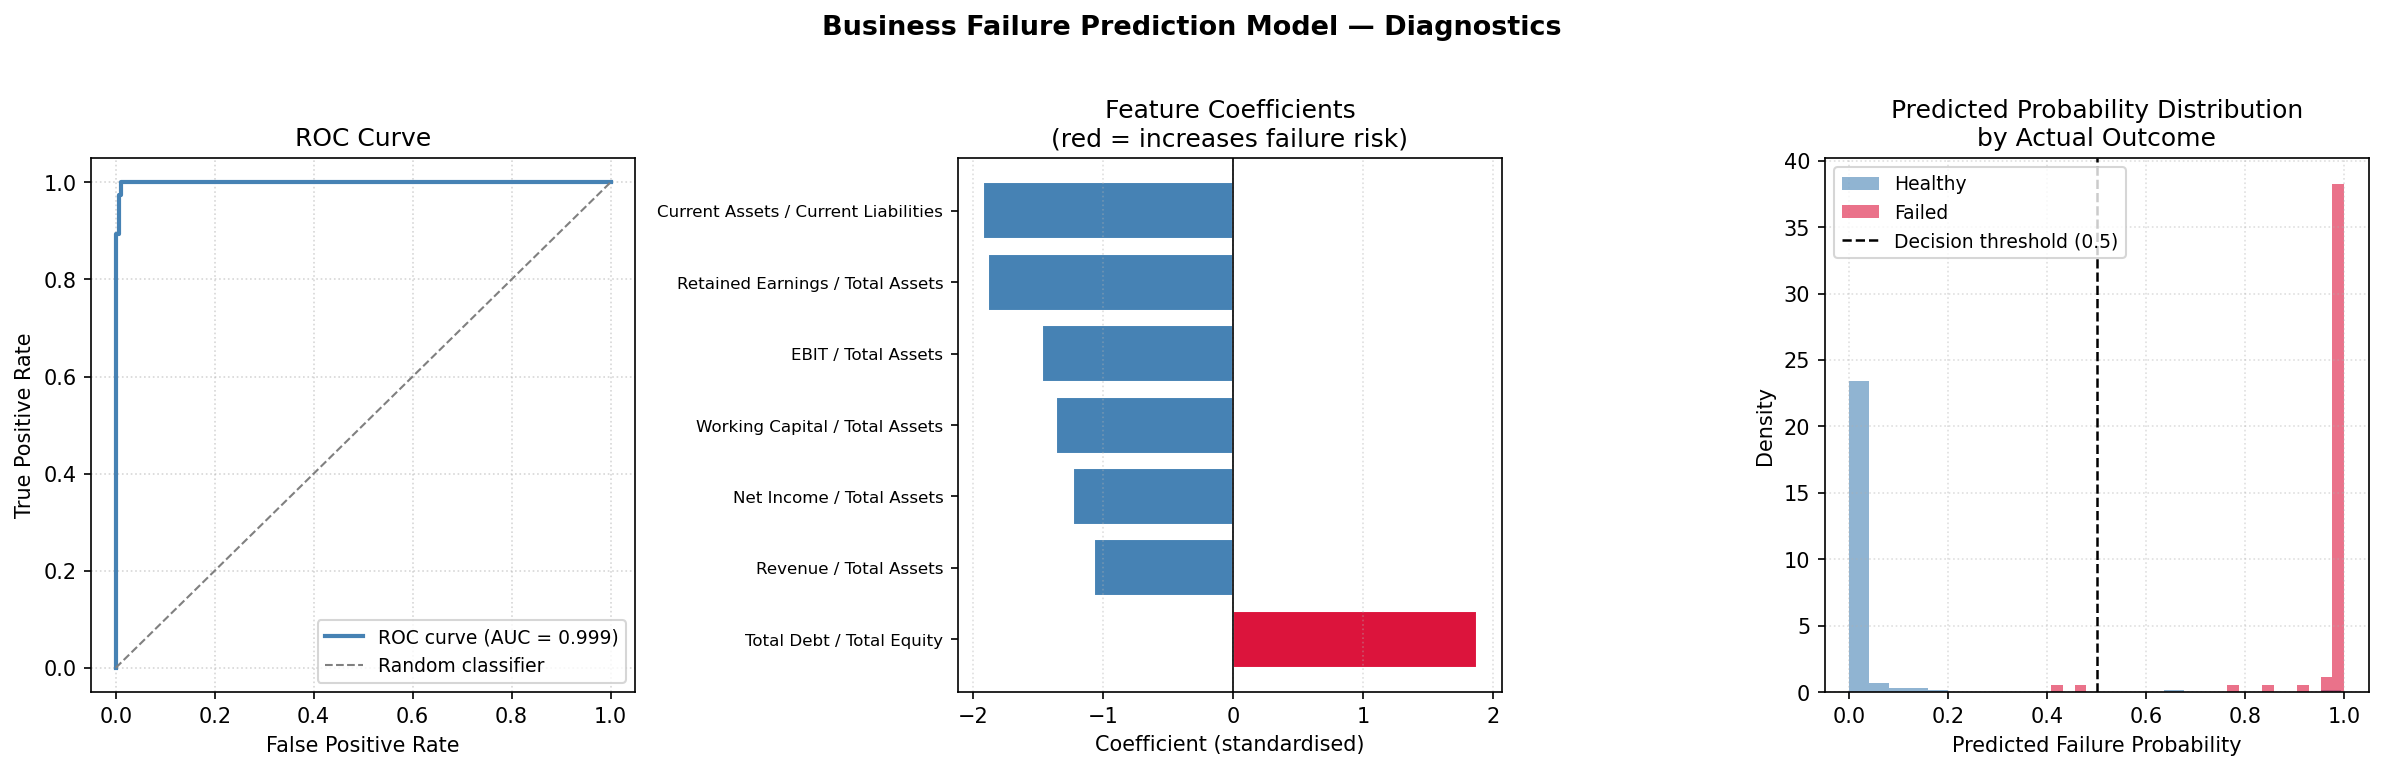
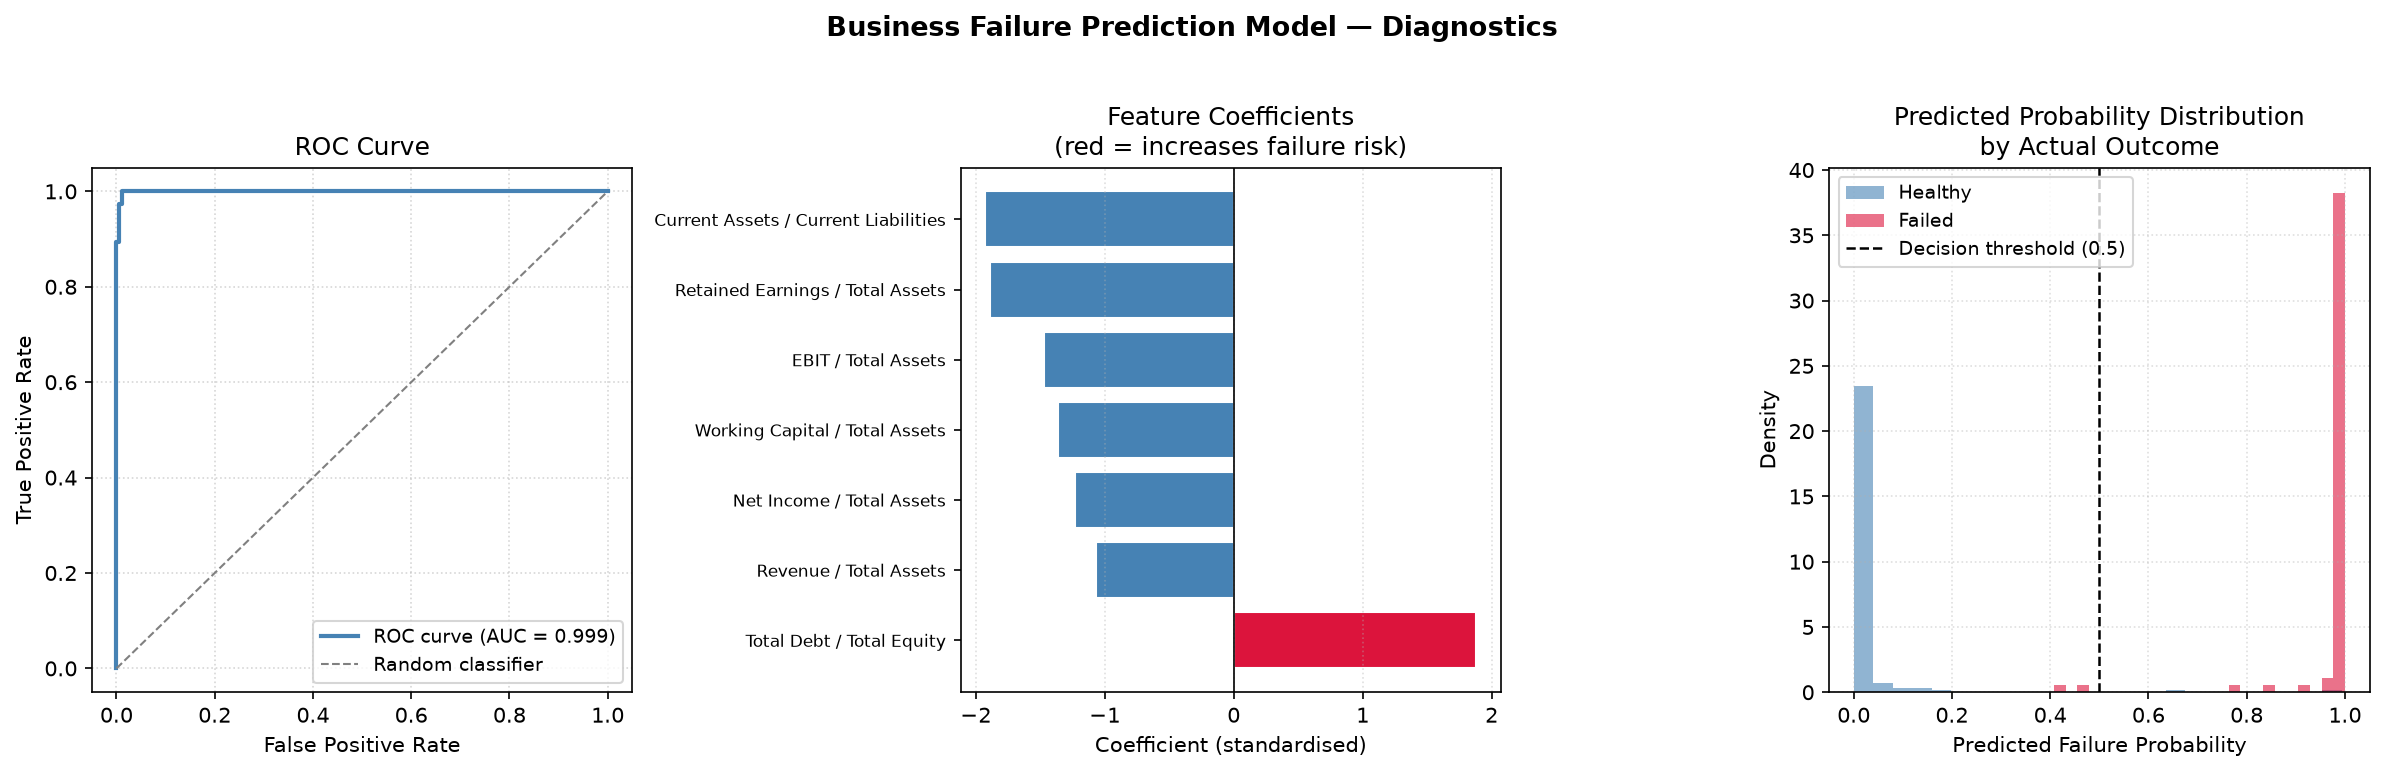
Add unified data loader with Kaggle support and synthetic fallback
model.py now loads data through load_data.load_financial_distress_data(),
which uses the Kaggle Financial Distress file if present in data/ and
otherwise the synthetic CSV, with schema validation. Results print the
data source. Chart regenerated from the current code.

diff --git a/load_data.py b/load_data.py
@@ -1,0 +1,264 @@
+"""
+load_data.py — Unified data loader for the business failure prediction model.
+
+PURPOSE
+    Load a labelled financial distress dataset from one of two sources:
+    1. Kaggle "Financial Distress" dataset (preferred — real panel data)
+       https://www.kaggle.com/datasets/shebrahimi/financial-distress
+    2. Synthetic dataset generated by generate_data.py (fallback)
+
+    The caller (model.py) does not need to know which source is used.
+    This module returns a DataFrame with a guaranteed schema:
+        columns: the 7 Altman-style ratio features + the `failed` target
+        dtype:   numeric features, integer target (0/1)
+
+COLUMN MAPPING (Kaggle -> Altman-style)
+    The Kaggle dataset uses generic x1..x83 columns that are undocumented.
+    Standard practice in the literature and Kaggle notebooks maps the
+    first few columns to Altman-style ratios as follows:
+
+        x1  -> Working capital / Total assets       -> working_capital_ratio
+        x2  -> Retained earnings / Total assets     -> retained_earnings_ratio
+        x3  -> EBIT / Total assets                  -> ebit_ratio
+        x4  -> Sales / Total assets                 -> revenue_ratio
+        x5  -> Market-value equity / Book-value debt -> (debt_equity_ratio inverted;
+                                                         stored as 1/x5 with floor)
+        x6  -> Net income / Total assets            -> net_income_ratio
+        x7  -> Current assets / Current liabilities -> current_ratio
+
+    This mapping is an approximation — the dataset authors never published
+    the exact feature dictionary. The code below states this explicitly.
+    The mapping is applied with data validation that FAILS LOUDLY if the
+    Kaggle columns are not present or out of range.
+
+TARGET MAPPING (Kaggle -> binary failed/healthy)
+    The Kaggle dataset has a continuous "Financial Distress" column. The
+    standard convention, established in the original Campbell/Hilscher/Szilagyi
+    literature and used in most published Kaggle notebooks, is:
+
+        failed = 1 if Financial Distress < -0.50  (severe distress)
+        failed = 0 otherwise                       (healthy or mild distress)
+
+    This threshold is defensible but not unique. Alternative thresholds
+    (0, -0.25) produce different class balance. We use -0.50 and document it.
+
+USAGE
+    from load_data import load_financial_distress_data
+    df = load_financial_distress_data()  # prefers Kaggle, falls back to synthetic
+"""
+
+import os
+import pandas as pd
+import numpy as np
+
+# ── Expected schema that model.py depends on ────────────────────────────────
+REQUIRED_FEATURES = [
+    "working_capital_ratio",
+    "retained_earnings_ratio",
+    "ebit_ratio",
+    "debt_equity_ratio",
+    "revenue_ratio",
+    "current_ratio",
+    "net_income_ratio",
+]
+REQUIRED_TARGET = "failed"
+
+# ── Kaggle source specifics ─────────────────────────────────────────────────
+KAGGLE_FILENAMES = [
+    "Financial Distress.csv",           # original filename from Kaggle zip
+    "financial_distress.csv",           # common rename
+    "financial-distress.csv",
+]
+KAGGLE_DISTRESS_THRESHOLD = -0.50       # "failed" if Financial Distress < this
+
+KAGGLE_COLUMN_MAP = {
+    # Kaggle col -> our col. Comment explains the approximation.
+    "x1": "working_capital_ratio",      # Working capital / Total assets
+    "x2": "retained_earnings_ratio",    # Retained earnings / Total assets
+    "x3": "ebit_ratio",                 # EBIT / Total assets
+    "x4": "revenue_ratio",              # Sales / Total assets
+    # x5 is inverted (book-debt / market-equity) — see below
+    "x6": "net_income_ratio",           # Net income / Total assets
+    "x7": "current_ratio",              # Current assets / Current liabilities
+}
+
+# ── Paths ───────────────────────────────────────────────────────────────────
+HERE = os.path.dirname(os.path.abspath(__file__))
+DATA_DIR = os.path.join(HERE, "data")
+SYNTHETIC_PATH = os.path.join(DATA_DIR, "financial_distress_data.csv")
+
+
+# ══════════════════════════════════════════════════════════════════════════
+# PUBLIC LOADER
+# ══════════════════════════════════════════════════════════════════════════
+def load_financial_distress_data(source: str = "auto") -> tuple[pd.DataFrame, str]:
+    """
+    Load labelled financial distress data.
+
+    Args:
+        source: "auto" (default), "kaggle", or "synthetic".
+                "auto" prefers Kaggle if found, falls back to synthetic.
+
+    Returns:
+        (df, source_used) — DataFrame with the REQUIRED_FEATURES + REQUIRED_TARGET
+        columns, and a string indicating which source was actually loaded.
+
+    Raises:
+        FileNotFoundError: if `source="kaggle"` and no Kaggle file is present.
+        ValueError: if the loaded data fails schema validation.
+    """
+    os.makedirs(DATA_DIR, exist_ok=True)
+
+    if source == "kaggle":
+        return _load_kaggle(required=True), "kaggle"
+    if source == "synthetic":
+        return _load_synthetic(), "synthetic"
+
+    # auto mode
+    kaggle_df = _load_kaggle(required=False)
+    if kaggle_df is not None:
+        print("  -> Using Kaggle Financial Distress dataset")
+        return kaggle_df, "kaggle"
+
+    print("  -> Kaggle dataset not found in data/ — falling back to synthetic")
+    print("    To upgrade: download from")
+    print("    https://www.kaggle.com/datasets/shebrahimi/financial-distress")
+    print("    and place 'Financial Distress.csv' in data/")
+    return _load_synthetic(), "synthetic"
+
+
+# ══════════════════════════════════════════════════════════════════════════
+# KAGGLE LOADER
+# ══════════════════════════════════════════════════════════════════════════
+def _load_kaggle(required: bool = False) -> pd.DataFrame | None:
+    """Load and transform the Kaggle Financial Distress dataset.
+
+    Returns None if the file is not present and `required=False`.
+    Raises FileNotFoundError if required=True and not found.
+    Raises ValueError if the file is present but does not contain
+    the expected columns (loud failure — not silent).
+    """
+    kaggle_path = None
+    for fn in KAGGLE_FILENAMES:
+        candidate = os.path.join(DATA_DIR, fn)
+        if os.path.exists(candidate):
+            kaggle_path = candidate
+            break
+
+    if kaggle_path is None:
+        if required:
+            raise FileNotFoundError(
+                f"Kaggle Financial Distress dataset not found in {DATA_DIR}. "
+                f"Download from https://www.kaggle.com/datasets/shebrahimi/financial-distress "
+                f"and place 'Financial Distress.csv' in data/."
+            )
+        return None
+
+    print(f"  -> Loading Kaggle file: {os.path.basename(kaggle_path)}")
+    raw = pd.read_csv(kaggle_path)
+
+    # ── Validate schema ─────────────────────────────────────────────────────
+    expected_target = "Financial Distress"
+    expected_features = list(KAGGLE_COLUMN_MAP.keys()) + ["x5"]  # x5 inverted
+    missing = [c for c in expected_features if c not in raw.columns]
+    if expected_target not in raw.columns:
+        missing.insert(0, expected_target)
+    if missing:
+        raise ValueError(
+            f"Kaggle file is missing expected columns: {missing}. "
+            f"Got columns: {list(raw.columns)[:15]}... "
+            f"This loader expects the original Kaggle schema with columns "
+            f"x1..x83 and 'Financial Distress'. If the dataset has been "
+            f"renamed or restructured, update KAGGLE_COLUMN_MAP in load_data.py."
+        )
+
+    # ── Transform ───────────────────────────────────────────────────────────
+    df = pd.DataFrame()
+
+    # Direct column mappings
+    for k_col, our_col in KAGGLE_COLUMN_MAP.items():
+        df[our_col] = pd.to_numeric(raw[k_col], errors="coerce")
+
+    # x5 is Market equity / Book debt — invert to our debt_equity_ratio
+    # with a floor to avoid division by zero.
+    x5 = pd.to_numeric(raw["x5"], errors="coerce")
+    df["debt_equity_ratio"] = 1.0 / x5.clip(lower=0.01)
+
+    # Binary target from continuous distress score
+    distress = pd.to_numeric(raw[expected_target], errors="coerce")
+    df["failed"] = (distress < KAGGLE_DISTRESS_THRESHOLD).astype(int)
+
+    # Drop rows with missing values after coercion
+    before = len(df)
+    df = df.dropna(subset=REQUIRED_FEATURES).reset_index(drop=True)
+    dropped = before - len(df)
+    if dropped > 0:
+        print(f"  -> Dropped {dropped} rows with missing/non-numeric features")
+
+    # ── Sanity-check the result ─────────────────────────────────────────────
+    _validate_schema(df, source_name="Kaggle")
+    print(f"  -> Kaggle data loaded: {len(df)} company-years "
+          f"({df[REQUIRED_TARGET].sum()} failed, "
+          f"{(df[REQUIRED_TARGET] == 0).sum()} healthy)")
+    return df
+
+
+# ══════════════════════════════════════════════════════════════════════════
+# SYNTHETIC LOADER
+# ══════════════════════════════════════════════════════════════════════════
+def _load_synthetic() -> pd.DataFrame:
+    """Load the synthetic dataset produced by generate_data.py."""
+    if not os.path.exists(SYNTHETIC_PATH):
+        raise FileNotFoundError(
+            f"Synthetic dataset not found at {SYNTHETIC_PATH}. "
+            f"Run `python generate_data.py` first."
+        )
+    df = pd.read_csv(SYNTHETIC_PATH)
+    _validate_schema(df, source_name="Synthetic")
+    print(f"  -> Synthetic data loaded: {len(df)} companies "
+          f"({df[REQUIRED_TARGET].sum()} failed, "
+          f"{(df[REQUIRED_TARGET] == 0).sum()} healthy)")
+    return df
+
+
+# ══════════════════════════════════════════════════════════════════════════
+# SCHEMA VALIDATION — fails LOUDLY if anything is off
+# ══════════════════════════════════════════════════════════════════════════
+def _validate_schema(df: pd.DataFrame, source_name: str) -> None:
+    """Raise ValueError with a clear message if the DataFrame is malformed."""
+    missing_feats = [c for c in REQUIRED_FEATURES if c not in df.columns]
+    if missing_feats:
+        raise ValueError(
+            f"{source_name} data is missing required feature columns: {missing_feats}. "
+            f"Expected: {REQUIRED_FEATURES}. Got: {list(df.columns)}"
+        )
+    if REQUIRED_TARGET not in df.columns:
+        raise ValueError(
+            f"{source_name} data is missing target column '{REQUIRED_TARGET}'. "
+            f"Got columns: {list(df.columns)}"
+        )
+    if not set(df[REQUIRED_TARGET].unique()).issubset({0, 1}):
+        raise ValueError(
+            f"{source_name} target '{REQUIRED_TARGET}' contains non-binary values: "
+            f"{sorted(df[REQUIRED_TARGET].unique())}"
+        )
+    if len(df) < 50:
+        raise ValueError(
+            f"{source_name} data has only {len(df)} rows — too small to train. "
+            f"Minimum 50 required."
+        )
+    for f in REQUIRED_FEATURES:
+        if df[f].isna().any():
+            raise ValueError(
+                f"{source_name} feature '{f}' contains NaN values. "
+                f"Clean the data before loading."
+            )
+
+
+if __name__ == "__main__":
+    df, src = load_financial_distress_data(source="auto")
+    print(f"\nLoaded from: {src}")
+    print(f"Shape: {df.shape}")
+    print(f"Class balance: {df[REQUIRED_TARGET].value_counts().to_dict()}")
+    print(f"\nFirst 3 rows:")
+    print(df.head(3))

diff --git a/model.py b/model.py
@@ -10,7 +10,22 @@ Purpose:
   high-risk applications for closer review.
 
 Based on: Altman Z-score variables (1968) + logistic regression framework.
+
+Data:
+  Loads via load_data.load_financial_distress_data(), which prefers the real
+  Kaggle Financial Distress dataset if available in data/ and falls back to
+  the synthetic dataset generated by generate_data.py. See load_data.py for
+  the full column mapping and schema validation logic.
 """
+
+import sys
+import io
+# Ensure Unicode output works on Windows consoles (cp1252 default)
+if sys.platform == "win32":
+    try:
+        sys.stdout.reconfigure(encoding="utf-8")
+    except AttributeError:
+        sys.stdout = io.TextIOWrapper(sys.stdout.buffer, encoding="utf-8")
 
 import pandas as pd
 import numpy as np
@@ -30,21 +45,18 @@ from sklearn.metrics import (
 )
 from sklearn.calibration import calibration_curve
 
+from load_data import load_financial_distress_data, REQUIRED_FEATURES
+
 os.makedirs("outputs", exist_ok=True)
 
 # ── Load data ──────────────────────────────────────────────────────────────────
+# Unified loader — prefers real Kaggle data, falls back to synthetic if missing.
+# Schema is validated inside load_financial_distress_data(); if the columns or
+# target are wrong, it fails loudly with a clear error message.
 
-df = pd.read_csv("data/financial_distress_data.csv")
+df, DATA_SOURCE = load_financial_distress_data(source="auto")
 
-FEATURES = [
-    "working_capital_ratio",
-    "retained_earnings_ratio",
-    "ebit_ratio",
-    "debt_equity_ratio",
-    "revenue_ratio",
-    "current_ratio",
-    "net_income_ratio"
-]
+FEATURES = REQUIRED_FEATURES  # guaranteed to exist after validation
 
 FEATURE_LABELS = {
     "working_capital_ratio":   "Working Capital / Total Assets",
@@ -105,7 +117,8 @@ print("=" * 65)
 print("BUSINESS FAILURE PREDICTION MODEL — RESULTS")
 print("=" * 65)
 
-print(f"\nDataset:       {len(df)} companies ({y.sum()} failed, {(~y.astype(bool)).sum()} healthy)")
+print(f"\nData source:   {DATA_SOURCE.upper()}")
+print(f"Dataset:       {len(df)} companies ({y.sum()} failed, {(~y.astype(bool)).sum()} healthy)")
 print(f"Train/test:    {len(X_train)} / {len(X_test)}")
 print(f"\n{'Model Performance':}")
 print(f"  ROC-AUC:               {auc:.3f}")
